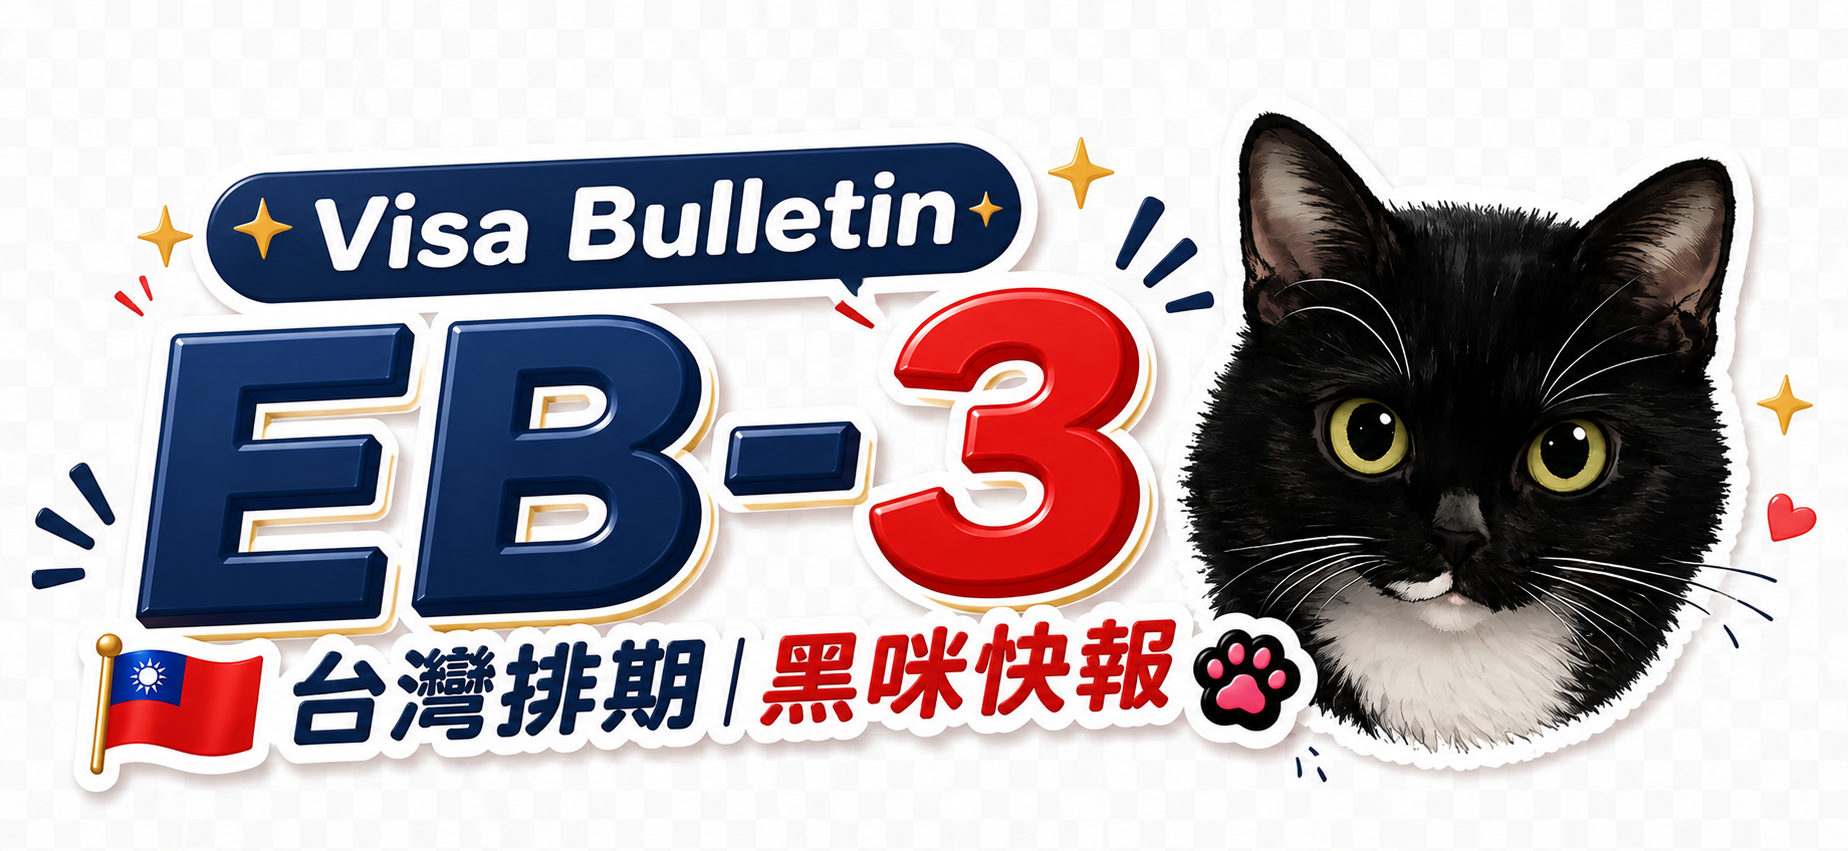
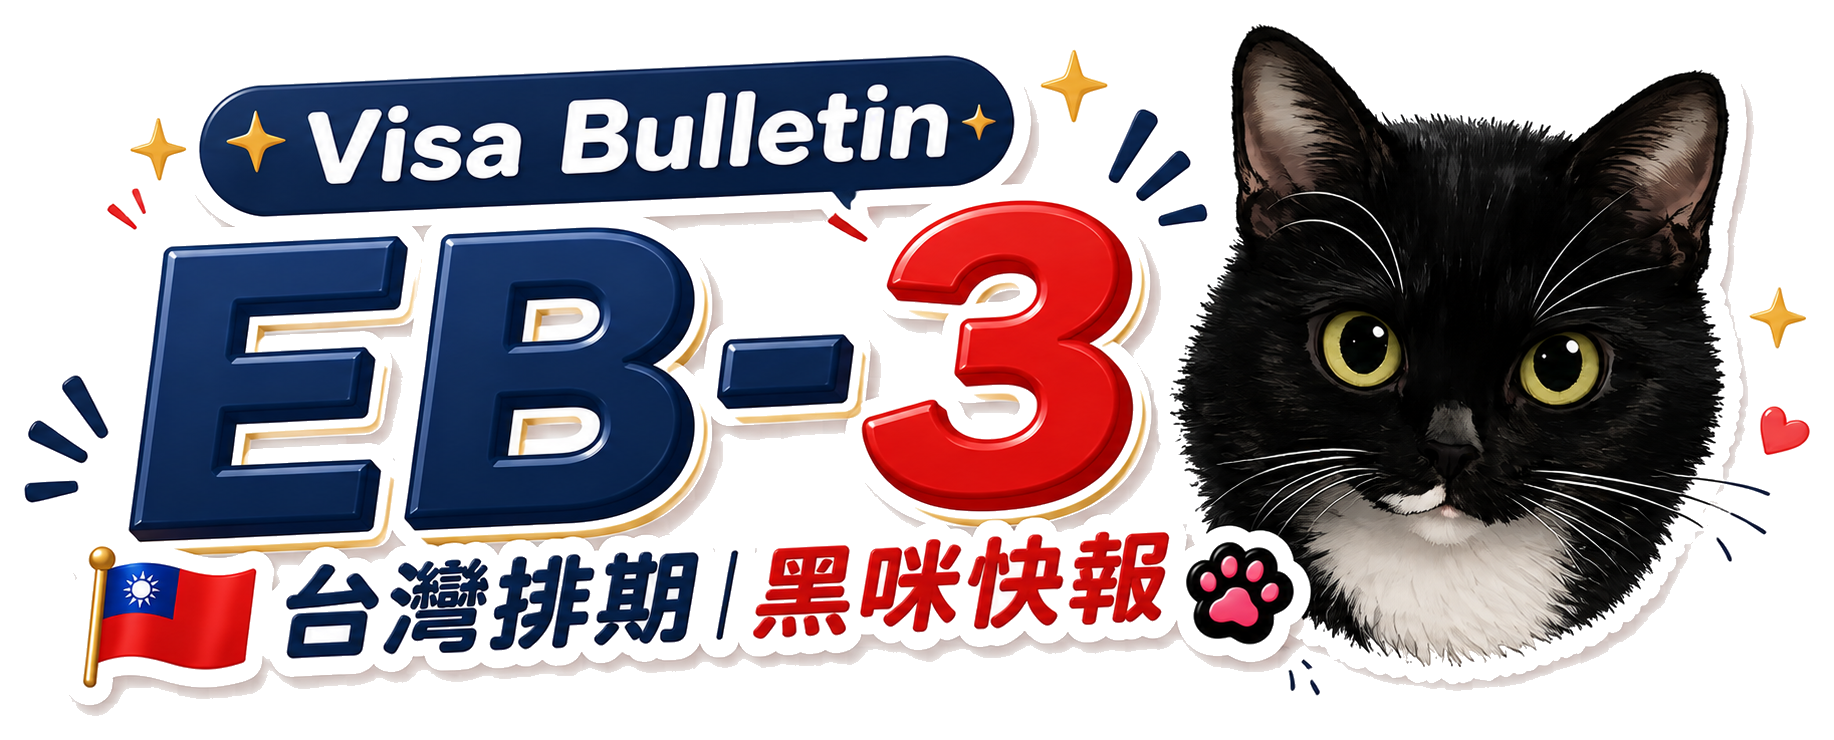
CAT

diff --git a/web/styles.css b/web/styles.css
@@ -53,27 +53,9 @@ body[data-mood="retrogressed"] {
 }
 
 .bubble,
-.medical-cross,
-.flag-ribbon,
-.flag-star {
+.medical-cross {
   position: absolute;
   opacity: 0.65;
-}
-
-.flag-ribbon {
-  right: -24px;
-  top: 8px;
-  width: 238px;
-  height: auto;
-  opacity: 0.92;
-  transform: rotate(-7deg);
-  filter: drop-shadow(0 18px 18px rgba(25, 47, 111, 0.16));
-}
-
-.flag-star {
-  color: rgba(25, 47, 111, 0.32);
-  font-size: 34px;
-  line-height: 1;
 }
 
 .background-decor::before,
@@ -177,10 +159,7 @@ body[data-mood="retrogressed"] {
 }
 
 .topbar {
-  display: flex;
-  align-items: end;
-  justify-content: space-between;
-  gap: 20px;
+  display: block;
   padding: 8px 0 22px;
 }
 
@@ -342,6 +321,15 @@ h2 {
   padding: 18px 0 4px 120px;
 }
 
+.brand-bottom-row {
+  position: relative;
+  z-index: 4;
+  display: flex;
+  align-items: center;
+  gap: 18px;
+  width: min(860px, 100%);
+}
+
 .byline {
   position: relative;
   z-index: 2;
@@ -367,26 +355,26 @@ h2 {
 
 .top-actions {
   display: grid;
-  justify-items: end;
-  gap: 8px;
-  max-width: 360px;
+  justify-items: start;
+  gap: 6px;
+  max-width: 390px;
 }
 
 .top-action-buttons {
   display: flex;
   flex-wrap: wrap;
-  justify-content: end;
-  gap: 10px;
+  justify-content: start;
+  gap: 8px;
 }
 
 .ios-note {
   margin: 0;
   color: #53677e;
-  font-size: 13px;
+  font-size: 12px;
   font-weight: 850;
   line-height: 1.35;
-  text-align: right;
-  max-width: 300px;
+  text-align: left;
+  max-width: 340px;
 }
 
 .ios-note span {
@@ -1253,7 +1241,7 @@ input:focus {
     linear-gradient(180deg, rgba(255, 255, 255, 0.92), rgba(240, 251, 255, 0.72)),
     repeating-linear-gradient(0deg, transparent 0 24px, rgba(47, 143, 167, 0.06) 24px 25px),
     repeating-linear-gradient(90deg, transparent 0 42px, rgba(47, 143, 167, 0.06) 42px 43px);
-  min-height: 270px;
+  min-height: 320px;
   margin-top: 16px;
   padding: 8px;
 }
@@ -1336,13 +1324,13 @@ input:focus {
 
 .chart-label-month {
   fill: #64748b;
-  font-size: 8px;
+  font-size: 7.5px;
   font-weight: 900;
 }
 
 .chart-label-pd {
   fill: #17364b;
-  font-size: 11px;
+  font-size: 10.5px;
   font-weight: 950;
 }
 
@@ -1708,7 +1696,6 @@ pre {
     padding-top: 20px;
   }
 
-  .topbar,
   .brand-lockup,
   .feed-head {
     align-items: stretch;
@@ -1745,6 +1732,13 @@ pre {
 
   .brand-title {
     width: min(440px, 100%);
+  }
+
+  .brand-bottom-row {
+    align-items: stretch;
+    flex-direction: column;
+    gap: 12px;
+    width: 100%;
   }
 
   .top-actions,

diff --git a/web/index.html b/web/index.html
@@ -14,9 +14,6 @@
   <body>
     <div class="fireworks" id="fireworks" aria-hidden="true"></div>
     <div class="background-decor" aria-hidden="true">
-      <img class="flag-ribbon" src="../assets/hemisayhi.png" alt="" />
-      <span class="flag-star star-one">★</span>
-      <span class="flag-star star-two">★</span>
       <span class="bubble bubble-one"></span>
       <span class="bubble bubble-two"></span>
       <span class="bubble bubble-three"></span>
@@ -34,25 +31,27 @@
             <h1 class="brand-title">
               <img src="../assets/news-title.png" alt="Visa Bulletin EB-3 台灣排期 黑咪快報" />
             </h1>
-            <p class="byline">
-              <span>
-                by 美國RN Louis 桑 聯合
-                <a href="https://www.instagram.com/im_np_hello?utm_source=ig_web_button_share_sheet&amp;igsh=ZDNlZDc0MzIxNw==" target="_blank" rel="noreferrer">阿酸學姊</a>
-              </span>
-              <span>歡迎追蹤學姊IG關注 美加RN大小事 攏底加！</span>
-            </p>
+            <div class="brand-bottom-row">
+              <p class="byline">
+                <span>
+                  by 美國RN Louis 桑 聯合
+                  <a href="https://www.instagram.com/im_np_hello?utm_source=ig_web_button_share_sheet&amp;igsh=ZDNlZDc0MzIxNw==" target="_blank" rel="noreferrer">阿酸學姊</a>
+                </span>
+                <span>歡迎追蹤學姊IG關注 美加RN大小事 攏底加！</span>
+              </p>
+              <div class="top-actions" aria-label="通知操作">
+                <div class="top-action-buttons">
+                  <button id="enableNotifications" type="button">📣 開啟瀏覽器通知</button>
+                  <button id="openGuide" class="secondary-action" type="button">🐾 詳細使用說明</button>
+                </div>
+                <p class="ios-note">
+                  <span>🐾 iPhone 用戶請先詳閱說明</span>
+                  <span>將網頁加入主畫面方可開啟通知。</span>
+                </p>
+              </div>
+            </div>
           </div>
           </div>
-        </div>
-        <div class="top-actions" aria-label="通知操作">
-          <div class="top-action-buttons">
-            <button id="enableNotifications" type="button">📣 開啟瀏覽器通知</button>
-            <button id="openGuide" class="secondary-action" type="button">🐾 詳細使用說明</button>
-          </div>
-          <p class="ios-note">
-            <span>🐾 iPhone 用戶請先詳閱說明</span>
-            <span>將網頁加入主畫面方可開啟通知。</span>
-          </p>
         </div>
       </section>
 
@@ -146,7 +145,7 @@
         </div>
         <p class="history-intro" id="historyInsight">標籤上排是公布月份，下排是當月表 A PD 更新到哪一天；黑咪只標重要轉折點，線條保留完整走勢喵～</p>
         <div class="chart-wrap">
-          <svg id="historyChart" viewBox="0 0 640 220" role="img" aria-label="EB-3 排期歷史走勢圖"></svg>
+          <svg id="historyChart" viewBox="0 0 640 260" role="img" aria-label="EB-3 排期歷史走勢圖"></svg>
         </div>
         <div class="history-highlights" id="historyHighlights"></div>
         <div class="history-footer">

diff --git a/web/app.js b/web/app.js
@@ -302,7 +302,7 @@ function bulletinMonthLabel(item) {
 function historyPointLabel(item) {
   return {
     bulletin: bulletinMonthLabel(item),
-    pd: `PD 到 ${item.value}`,
+    pd: item.value,
   };
 }
 
@@ -439,14 +439,14 @@ function buildHistoryHighlights(items) {
     cards.push({
       icon: "🚀",
       title: "最大前進",
-      text: `${bulletinMonthLabel(items[biggestAdvance.index])} · PD 到 ${items[biggestAdvance.index].value}`,
+      text: `${bulletinMonthLabel(items[biggestAdvance.index])} · ${items[biggestAdvance.index].value}`,
     });
   }
   if (biggestRetro) {
     cards.push({
       icon: "⬅️",
       title: "明顯倒退",
-      text: `${bulletinMonthLabel(items[biggestRetro.index])} · PD 到 ${items[biggestRetro.index].value}`,
+      text: `${bulletinMonthLabel(items[biggestRetro.index])} · ${items[biggestRetro.index].value}`,
     });
   }
   if (longestPause) {
@@ -459,7 +459,7 @@ function buildHistoryHighlights(items) {
   cards.push({
     icon: "🐱",
     title: "本月位置",
-    text: `${bulletinMonthLabel(latest)} · PD 到 ${latest.value}`,
+    text: `${bulletinMonthLabel(latest)} · ${latest.value}`,
   });
 
   return cards.slice(0, 4);
@@ -543,8 +543,8 @@ function renderHistoryChart(current) {
   const max = Math.max(...dates);
   const range = Math.max(1, max - min);
   const chartWidth = 640;
-  const chartHeight = 220;
-  const pad = 72;
+  const chartHeight = 260;
+  const pad = 86;
   const usableWidth = chartWidth - pad * 2;
   const usableHeight = chartHeight - pad * 2;
 
@@ -582,12 +582,12 @@ function renderHistoryChart(current) {
 
   const importantIndexes = importantHistoryIndexes(items);
   const important = new Set(importantIndexes);
-  const topLabelTracks = [22, 58];
-  const bottomLabelTracks = [chartHeight - 22, chartHeight - 58];
+  const topLabelTracks = [24, 62];
+  const bottomLabelTracks = [chartHeight - 24, chartHeight - 62];
   const placedLabels = [];
-  const labelWidth = 112;
-  const labelHeight = 34;
-  const labelGap = 118;
+  const labelWidth = 104;
+  const labelHeight = 30;
+  const labelGap = 112;
   points.forEach((point, index) => {
     const kind = classifyHistoryPoint(items, index);
     const dot = document.createElementNS("http://www.w3.org/2000/svg", "circle");
@@ -638,7 +638,7 @@ function renderHistoryChart(current) {
       const pdText = document.createElementNS("http://www.w3.org/2000/svg", "text");
       pdText.setAttribute("class", "chart-label-pd");
       pdText.setAttribute("x", labelWidth / 2);
-      pdText.setAttribute("y", "27");
+      pdText.setAttribute("y", "25");
       pdText.setAttribute("text-anchor", "middle");
       pdText.textContent = labelText.pd;
       labelGroup.appendChild(pdText);